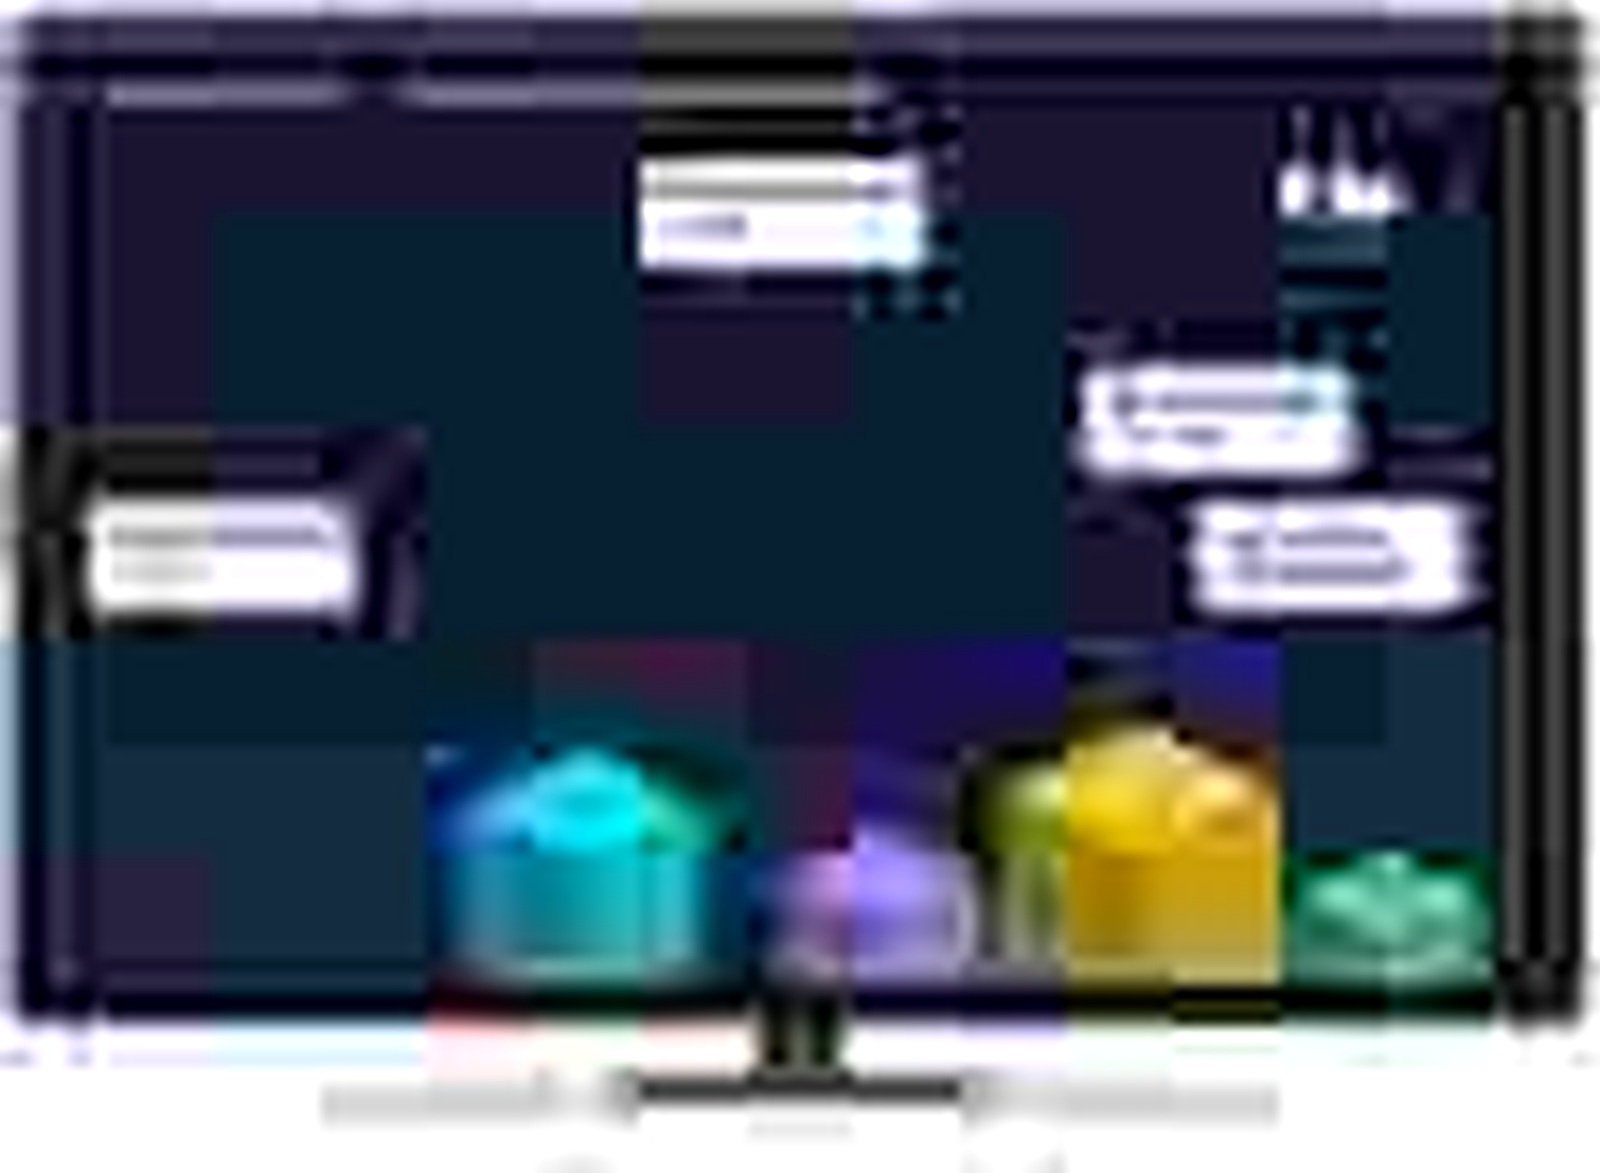
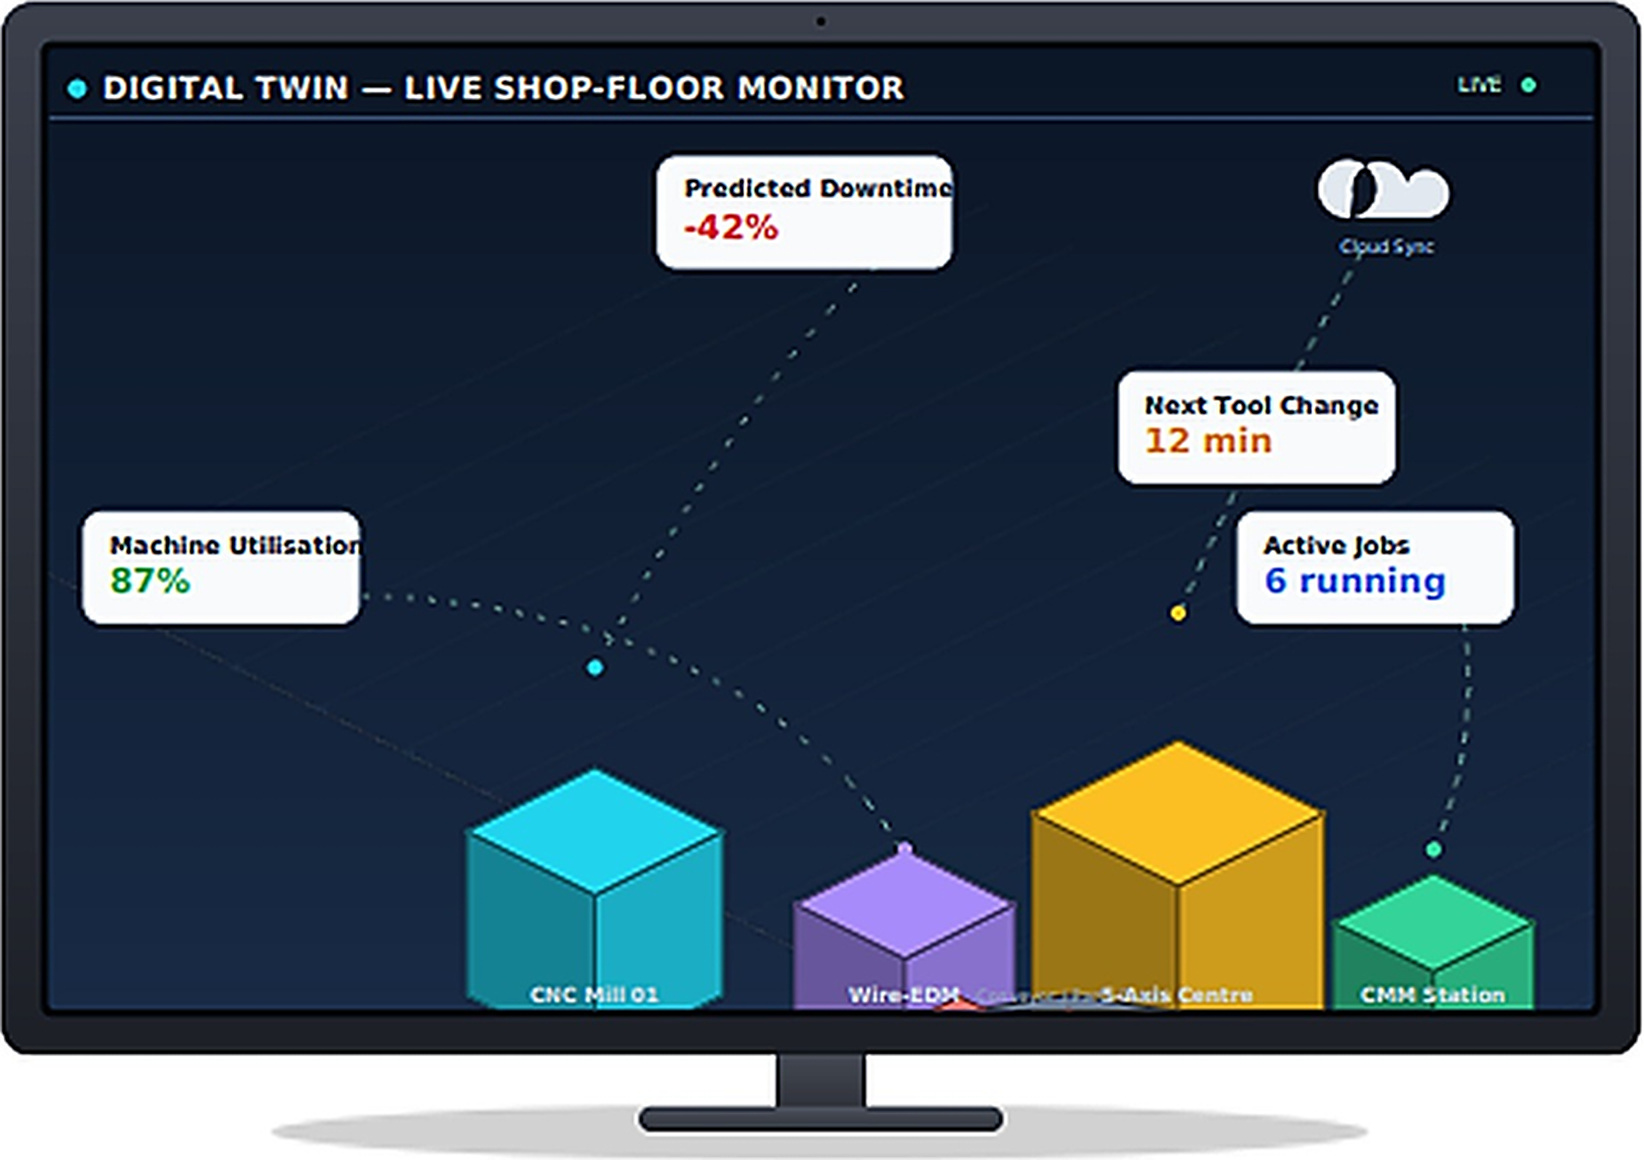
Use cropped HD concept images

diff --git a/index.html b/index.html
@@ -850,7 +850,7 @@ section .section-intro{max-width:760px;font-size:1.04rem;line-height:1.9;margin-
     <p>Below this, a live job table lists every machine with its current part number, the tool it is running, a colour-coded status such as “In Progress” or “Tool Change”, and an estimated finish time. One look shows where attention is needed. A panel shows machine utilisation as a simple percentage split between running, idle and maintenance time. A neighbouring alert box shows the next tool change that is due and counts down the minutes, so the technician can prepare in advance.</p>
     <p>Underneath, a simple system-flow diagram shows how data travels from each CNC machine and robotic cell, through an IoT interface, into a cloud or local server that processes and optimises the schedule, and then out to the dashboard and a companion mobile app. A short list of key features and benefits explains in plain language why automatic scheduling and real-time monitoring saves time, cuts cost and makes the shop floor easier to manage.</p>
     <figure>
-      <img src="images/concept-dashboard.jpg" alt="Concept sketch of the real-time production scheduling dashboard for CNC machines, with counters, job table, utilisation, alert and system flow" loading="lazy" decoding="async">
+      <img src="images/concept-dashboard-hd.jpg" alt="Concept sketch of the real-time production scheduling dashboard for CNC machines, with counters, job table, utilisation, alert and system flow" width="1980" height="1394" loading="lazy" decoding="async">
       <figcaption>Concept 1: desktop view of the real-time production scheduling dashboard for CNC machines and robotic welding cells.</figcaption>
     </figure>
 
@@ -859,7 +859,7 @@ section .section-intro{max-width:760px;font-size:1.04rem;line-height:1.9;margin-
     <p>Key numbers such as machine utilisation, predicted downtime, the time left until the next tool change and the number of active jobs float beside the models as small cards, joined by thin guide lines to the machine they describe. A supervisor walking through can see from across the room which station needs attention next.</p>
     <p>We felt this idea would be especially useful in busy shifts and for new supervisors who do not yet know every machine’s position and job code. A simple colour-coded 3-D layout is far faster to read under pressure than scrolling through rows of a table.</p>
     <figure>
-      <img src="images/concept-digital-twin.jpg" alt="Concept sketch of a 3-D digital twin monitor showing coloured machine blocks with utilisation, predicted downtime, next tool change and active jobs" loading="lazy" decoding="async">
+      <img src="images/concept-digital-twin-hd.jpg" alt="Concept sketch of a 3-D digital twin monitor showing coloured machine blocks with utilisation, predicted downtime, next tool change and active jobs" width="1644" height="1160" loading="lazy" decoding="async">
       <figcaption>Concept 2: 3-D digital-twin live monitoring display, shown on a shop-floor monitor.</figcaption>
     </figure>
 
